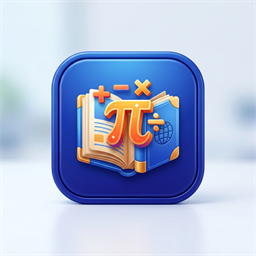
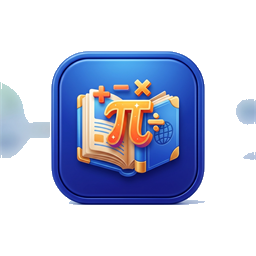
Auto release version v10.57

diff --git a/js/app.js b/js/app.js
@@ -2943,19 +2943,35 @@ const app = {
                                     }
                                 } catch (err) {
                                     errorCount++;
-                                    // Trong quá trình cài đặt, server Node.js sẽ thoát. Do đó, nếu gặp lỗi kết nối
-                                    // khi đang ở trạng thái chuẩn bị cài đặt (hoặc sau khi cài xong), ta coi đó là bình thường.
-                                    if (errorCount > 8) {
+                                    
+                                    // Cập nhật giao diện Swal để báo cho người dùng biết là đang cài đặt tệp tin mới và chờ server khởi động lại
+                                    const statusDetail = document.getElementById('update-status-detail');
+                                    if (statusDetail) {
+                                        statusDetail.innerHTML = `
+                                            <p style="color: var(--success, #2ecc71); font-weight: bold; font-size: 1.1rem; margin-bottom: 10px;">Đang tiến hành cài đặt các tệp tin mới...</p>
+                                            <p>Ứng dụng đang được nâng cấp lên phiên bản v${latestVersion}.</p>
+                                            <p>Hệ thống sẽ tự động khởi động lại sau khi hoàn tất. Vui lòng không tắt máy tính!</p>
+                                            <div style="text-align: center; margin-top: 15px;">
+                                                <div class="update-spinner" style="display: inline-block; width: 30px; height: 30px; border: 3px solid rgba(255,255,255,0.1); border-radius: 50%; border-top-color: #3E8EED; animation: spin 1s ease-in-out infinite;"></div>
+                                                <style>
+                                                    @keyframes spin { to { transform: rotate(360deg); } }
+                                                </style>
+                                            </div>
+                                        `;
+                                    }
+                                    
+                                    if (errorCount > 60) { // Quá 90 giây (60 lần * 1.5s) mà server chưa online lại
                                         Swal.fire({
-                                            title: 'Mất kết nối!',
-                                            text: 'Mất kết nối với máy chủ học tập cục bộ.',
+                                            title: 'Lỗi cập nhật!',
+                                            text: 'Quá trình cài đặt mất quá nhiều thời gian hoặc máy chủ không thể khởi động lại.',
                                             icon: 'error',
                                             background: 'var(--bg-card)',
                                             color: 'var(--text-main)',
                                             confirmButtonText: 'Đóng'
                                         });
                                     } else {
-                                        setTimeout(poll, 1000);
+                                        // Thử kết nối lại (polling) sau 1500ms
+                                        setTimeout(poll, 1500);
                                     }
                                 }
                             };

diff --git a/student.html b/student.html
@@ -126,7 +126,7 @@
     </script>
     
     <!-- Style tùy chỉnh -->
-    <link rel="stylesheet" href="css/style.css?v=10.56">
+    <link rel="stylesheet" href="css/style.css?v=10.57">
 
     <!-- Custom Style cho tính năng Cài đặt Phụ huynh -->
     <style>
@@ -805,7 +805,7 @@
             <button id="splash-start-btn" class="btn-splash-start">
                 BẮT ĐẦU HỌC TẬP &nbsp;<i class="fa-solid fa-arrow-right"></i>
             </button>
-            <div class="splash-version-tag">Phiên bản: v10.56 (Cập nhật: 15/07/2026 18:49)</div>
+            <div class="splash-version-tag">Phiên bản: v10.57 (Cập nhật: 15/07/2026 19:29)</div>
         </div>
     </div>
     <!-- Hộp thoại thông báo khi nhận Huy hiệu (Gamification Badge) -->
@@ -1919,19 +1919,19 @@
     </div>
 
     <!-- Script Scripts -->
-    <script src="js/english_data.js?v=10.56"></script>
-    <script src="js/lessons.js?v=10.56"></script>
-    <script src="js/questions-v1.js?v=10.56"></script>
-    <script src="js/questions-v4.js?v=10.56"></script>
-    <script src="js/questions-v3.js?v=10.56"></script>
-    <script src="js/game.js?v=10.56"></script>
+    <script src="js/english_data.js?v=10.57"></script>
+    <script src="js/lessons.js?v=10.57"></script>
+    <script src="js/questions-v1.js?v=10.57"></script>
+    <script src="js/questions-v4.js?v=10.57"></script>
+    <script src="js/questions-v3.js?v=10.57"></script>
+    <script src="js/game.js?v=10.57"></script>
     
     <!-- Firebase Client SDK (Compat version) -->
     <script src="https://www.gstatic.com/firebasejs/10.8.0/firebase-app-compat.js"></script>
     <script src="https://www.gstatic.com/firebasejs/10.8.0/firebase-auth-compat.js"></script>
     <script src="https://www.gstatic.com/firebasejs/10.8.0/firebase-firestore-compat.js"></script>
     
-    <script src="js/app.js?v=10.56"></script>
+    <script src="js/app.js?v=10.57"></script>
     
     <!-- Modal Đánh giá chất lượng học sinh dành cho Phụ huynh -->
     <div id="evaluation-modal" class="modal-overlay hidden" style="z-index: 2000000; position: fixed; top: 0; left: 0; width: 100vw; height: 100vh; background: rgba(0,0,0,0.6); display: flex; justify-content: center; align-items: center; backdrop-filter: blur(8px);">
@@ -2907,7 +2907,7 @@
 
     <!-- Thẻ hiển thị số phiên bản cố định ở góc dưới bên phải -->
     <div class="version-tag-fixed" style="position: fixed; bottom: 8px; right: 8px; z-index: 99999; font-size: 10px; color: var(--text-muted); opacity: 0.65; pointer-events: none; font-family: sans-serif; background: rgba(0,0,0,0.05); padding: 2px 6px; border-radius: 4px;">
-        Phiên bản: v10.56 (Cập nhật: 15/07/2026 18:49)
+        Phiên bản: v10.57 (Cập nhật: 15/07/2026 19:29)
     </div>
 </body>
 </html>

diff --git a/convert_icon.js b/convert_icon.js
@@ -42,22 +42,22 @@ function run() {
     process.exit(1);
   }
 
-  // 1. Chuyển đổi và resize ảnh JPEG/PNG gốc sang định dạng PNG 256x256 pixel bằng PowerShell .NET
-  console.log('⏳ Đang chuyển đổi và resize ảnh AI sang định dạng PNG 256x256...');
+  // 1. Chuyển đổi, resize ảnh AI sang định dạng PNG 256x256 và XÓA NỀN tự động (Transparent Background) bằng PowerShell .NET
+  console.log('⏳ Đang resize và xóa nền (làm trong suốt) ảnh AI...');
   try {
     const formattedAiPath = aiPngPath.replace(/\\/g, '/');
     const formattedTargetPath = targetPngPath.replace(/\\/g, '/');
     
-    const psCommand = `powershell -NoProfile -ExecutionPolicy Bypass -Command "Add-Type -AssemblyName System.Drawing; $src = [System.Drawing.Bitmap]::FromFile('${formattedAiPath}'); $dst = New-Object System.Drawing.Bitmap(256, 256); $g = [System.Drawing.Graphics]::FromImage($dst); $g.InterpolationMode = [System.Drawing.Drawing2D.InterpolationMode]::HighQualityBicubic; $g.SmoothingMode = [System.Drawing.Drawing2D.SmoothingMode]::HighQuality; $g.PixelOffsetMode = [System.Drawing.Drawing2D.PixelOffsetMode]::HighQuality; $g.CompositingQuality = [System.Drawing.Drawing2D.CompositingQuality]::HighQuality; $g.DrawImage($src, 0, 0, 256, 256); $g.Dispose(); $src.Dispose(); $dst.Save('${formattedTargetPath}', [System.Drawing.Imaging.ImageFormat]::Png); $dst.Dispose();"`;
+    const psCommand = `powershell -NoProfile -ExecutionPolicy Bypass -Command "Add-Type -AssemblyName System.Drawing; $src = [System.Drawing.Bitmap]::FromFile('${formattedAiPath}'); $dst = New-Object System.Drawing.Bitmap(256, 256, [System.Drawing.Imaging.PixelFormat]::Format32bppArgb); $g = [System.Drawing.Graphics]::FromImage($dst); $g.InterpolationMode = [System.Drawing.Drawing2D.InterpolationMode]::HighQualityBicubic; $g.SmoothingMode = [System.Drawing.Drawing2D.SmoothingMode]::HighQuality; $g.PixelOffsetMode = [System.Drawing.Drawing2D.PixelOffsetMode]::HighQuality; $g.CompositingQuality = [System.Drawing.Drawing2D.CompositingQuality]::HighQuality; $g.DrawImage($src, 0, 0, 256, 256); $g.Dispose(); $src.Dispose(); $bgCol = $dst.GetPixel(0, 0); $bgR = [int]$bgCol.R; $bgG = [int]$bgCol.G; $bgB = [int]$bgCol.B; $visited = New-Object 'Boolean[,]' 256, 256; $queue = New-Object System.Collections.Queue; $visited[0, 0] = $true; $queue.Enqueue(@(0, 0)); $visited[255, 0] = $true; $queue.Enqueue(@(255, 0)); $visited[0, 255] = $true; $queue.Enqueue(@(0, 255)); $visited[255, 255] = $true; $queue.Enqueue(@(255, 255)); $tolerance = 65; $dx = @(1, -1, 0, 0); $dy = @(0, 0, 1, -1); while ($queue.Count -gt 0) { $curr = $queue.Dequeue(); $cx = [int]$curr[0]; $cy = [int]$curr[1]; $pixelCol = $dst.GetPixel($cx, $cy); $rDiff = [int]$pixelCol.R - $bgR; $gDiff = [int]$pixelCol.G - $bgG; $bDiff = [int]$pixelCol.B - $bgB; $dist = [Math]::Sqrt(($rDiff * $rDiff) + ($gDiff * $gDiff) + ($bDiff * $bDiff)); if ($dist -lt $tolerance) { $dst.SetPixel($cx, $cy, [System.Drawing.Color]::Transparent); for ($i = 0; $i -lt 4; $i++) { $nx = $cx + $dx[$i]; $ny = $cy + $dy[$i]; if ($nx -ge 0 -and $nx -lt 256 -and $ny -ge 0 -and $ny -lt 256) { if (!$visited[$nx, $ny]) { $visited[$nx, $ny] = $true; $queue.Enqueue(@($nx, $ny)); } } } } } $dst.Save('${formattedTargetPath}', [System.Drawing.Imaging.ImageFormat]::Png); $dst.Dispose();"`;
     
     execSync(psCommand, { stdio: 'inherit' });
-    console.log(`✅ Đã resize và lưu ảnh PNG 256x256 tại: ${targetPngPath}`);
+    console.log(`✅ Đã lưu ảnh PNG 256x256 đã xóa nền tại: ${targetPngPath}`);
   } catch (error) {
-    console.error('❌ LỖI khi chạy lệnh PowerShell chuyển đổi ảnh:', error.message);
+    console.error('❌ LỖI khi chạy lệnh PowerShell chuyển đổi và xóa nền ảnh:', error.message);
     process.exit(1);
   }
 
-  // 2. Chuyển đổi PNG thực thụ sang file .ico
+  // 2. Đóng gói PNG trong suốt sang file .ico
   pngToIco(targetPngPath, targetIcoPath);
 }
 

diff --git a/server.js b/server.js
@@ -3343,7 +3343,7 @@ app.post('/api/exit-kiosk', authenticateAdminToken, (req, res) => {
 const https = require('https');
 const { spawn } = require('child_process');
 
-const APP_VERSION = '10.56';
+const APP_VERSION = '10.57';
 
 // 2. API lấy danh sách từ vựng tự nạp
 app.get('/api/custom-vocabulary', (req, res) => {
@@ -3807,7 +3807,11 @@ objShell.ShellExecute "${exePath}", "/SILENT /SP- /DIR=""${currentAppDir}""", ""
           });
 
           child.unref();
-          console.log('[AutoUpdate] Đã kích hoạt file VBScript nâng quyền thành công.');
+          console.log('[AutoUpdate] Đã kích hoạt file VBScript nâng quyền thành công. Node Server sẽ tự thoát sau 1.5 giây để giải phóng file handles.');
+          setTimeout(() => {
+            console.log('[AutoUpdate] Server Node.js chủ động thoát.');
+            process.exit(0);
+          }, 1500);
         } catch (spawnErr) {
           console.error('[AutoUpdate] Lỗi đồng bộ khi spawn wscript.exe:', spawnErr);
           updateStatus.status = 'error';